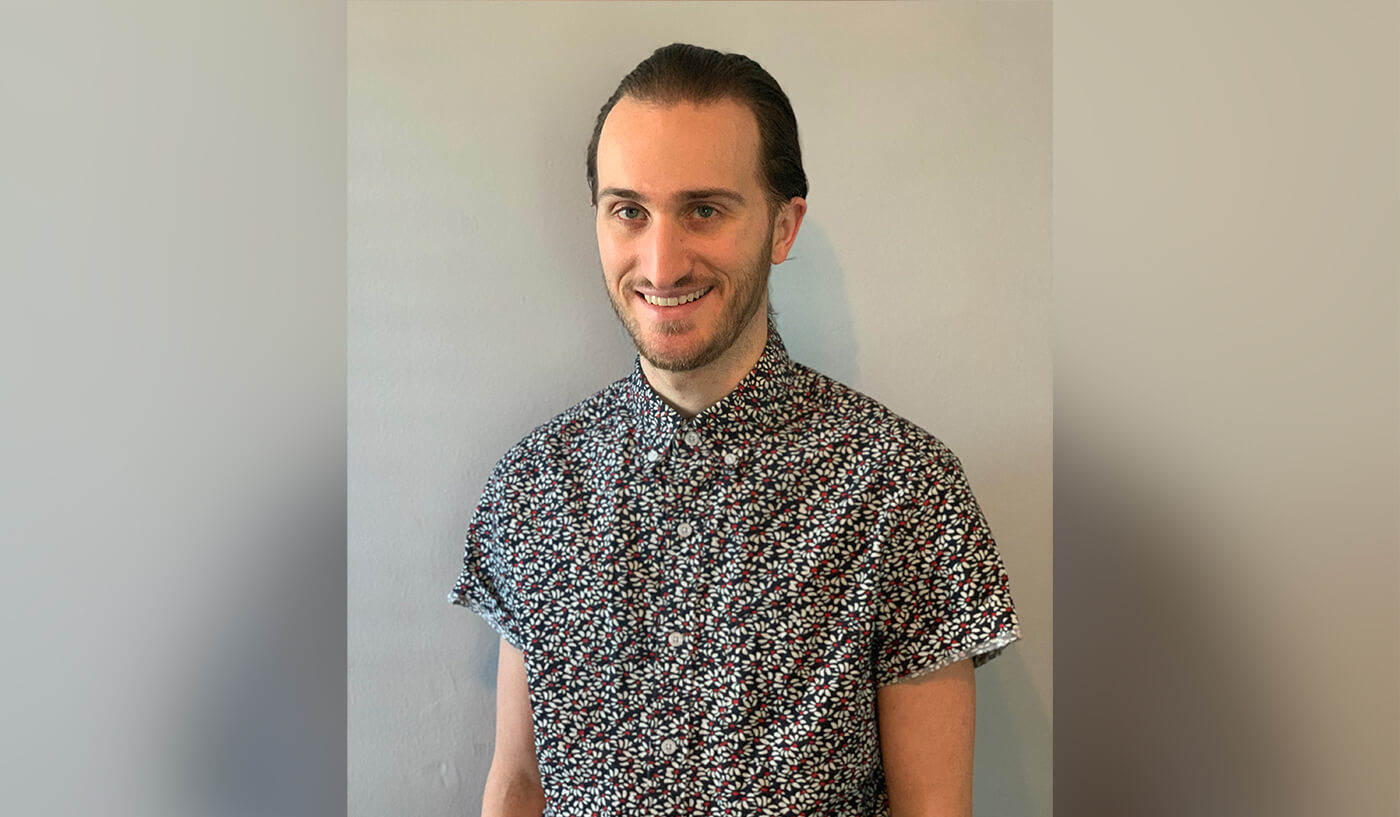
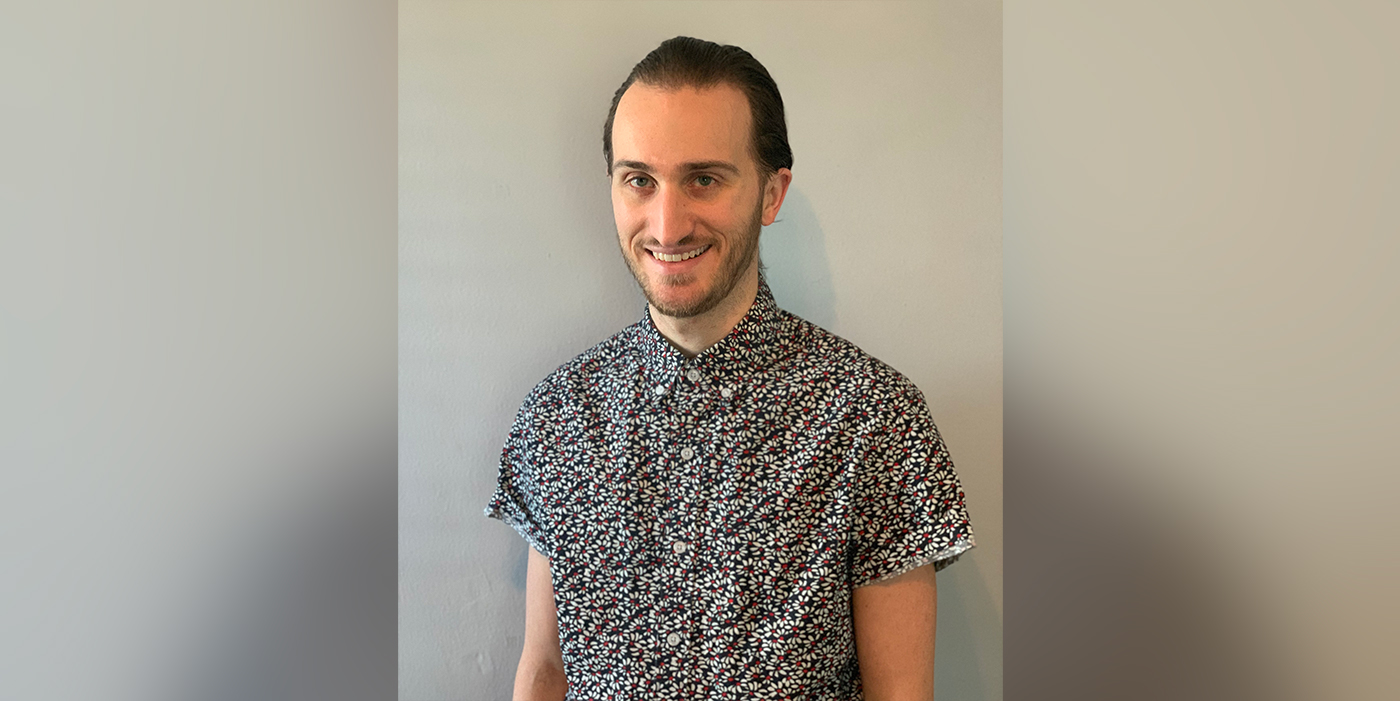
Add drawing

Changed region(s): [[0.1843, 0.0599, 0.9214, 1.0]]

diff --git a/assets/style/_story.scss b/assets/style/_story.scss
@@ -28,4 +28,8 @@
     .story-figure-joy-learning {
         margin: -3rem 0 -1rem -22rem;
     }
+
+    .story-figure-remember-why-started {
+        margin: -5rem 0 -1rem -23rem;
+    }
 }

diff --git a/content/story/2020/53/index.md b/content/story/2020/53/index.md
@@ -16,6 +16,9 @@ twitter = ""
 website = ""
 
 +++
+
+{{< figure src="remember-why-started.png" alt="Remember why you started" class="story-figure story-figure-remember-why-started" >}}
+
 #### What is your educational background?
 
 Master of Arts in Teaching from Michigan State University (2018), Bachelor of Arts in Mathematics from Michigan State University (2014), North Allegheny High School (2010)

diff --git a/content/stepping-into-hope/_index.md b/content/stepping-into-hope/_index.md
@@ -9,6 +9,7 @@ stories:
 - /story/2020/50
 - /story/2020/51
 - /story/2020/52
+- /story/2020/53
 ---
 
 Beauty is endless. Variations of hope are as intricate as snowflakes. Journey through ten doors, ten stories, ten days of hope…
